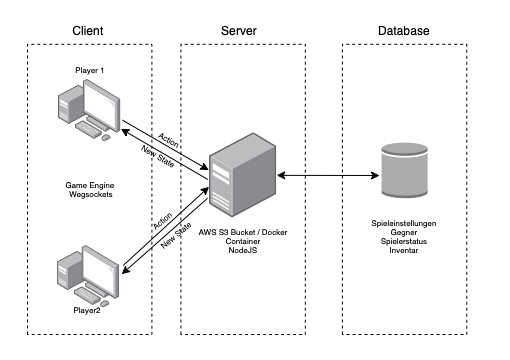
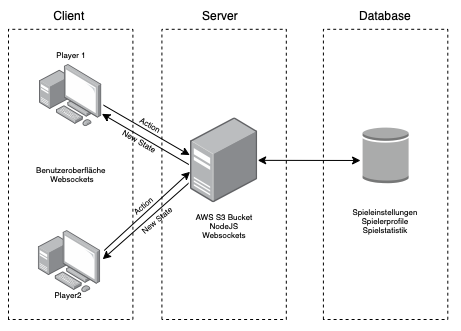
Grafiken verändert
Former-commit-id: 8c1f89df82673820ec134f78688b67cd20471416

diff --git a/doc/konzeptpapier/konzeptpapier.tex b/doc/konzeptpapier/konzeptpapier.tex
@@ -159,7 +159,7 @@ Diese beinhalten Informationen, beispielsweise zu den Spieleinstellungen, Gegner
 Die Verwaltung der Spieldaten und Logik soll im Hintergrund über einen oder mehrere Amazon S3 Buckets geregelt werden und dadurch auch eine Skalierbarkeit ermöglichen. Wird ein neues Spiel eröffnet, so kann beispielsweise dafür ein neuer Bucket initialisiert werden. 
 % Die Buckets können Container enthalten.
 Eine Alternative dazu wäre das Erstellen von Docker-Containern, da diese auf jeder Hardware umsetzbar sind und auf Anfrage weitere davon zugeschaltet werden könnten. Die Umgebung innerhalb des Servers wird mit NodeJS umgesetzt werden, da dies das Bereitstellen von Assets für die User ermöglicht. Um den Spielstand zwischen den Spielern zu synchronisieren, sollen diese eine Verbindung über Websockets mit dem Spielserver aufbauen.
-Die Game Engine, 
+Die , 
 % HTML5 ist doch nicht die Gameengine?
 die der Nutzer zu sehen bekommt, wird mit HTML5 implementiert. Des Weiteren wird das Framework 'Phaser' verwendet, um dem Nutzer grafische Ausgaben zu liefern und die Eingaben des Nutzers an das Spiel zu verarbeiten.
 Da Cheating ein große Problematik, insbesondere beim Multiplayer-Spiel darstellt, werden alle empfangenen Daten auf dem Server validiert. Dies löst zwar das Problem nicht vollständig, sollte jedoch kleine Angriffe abwehren. 
